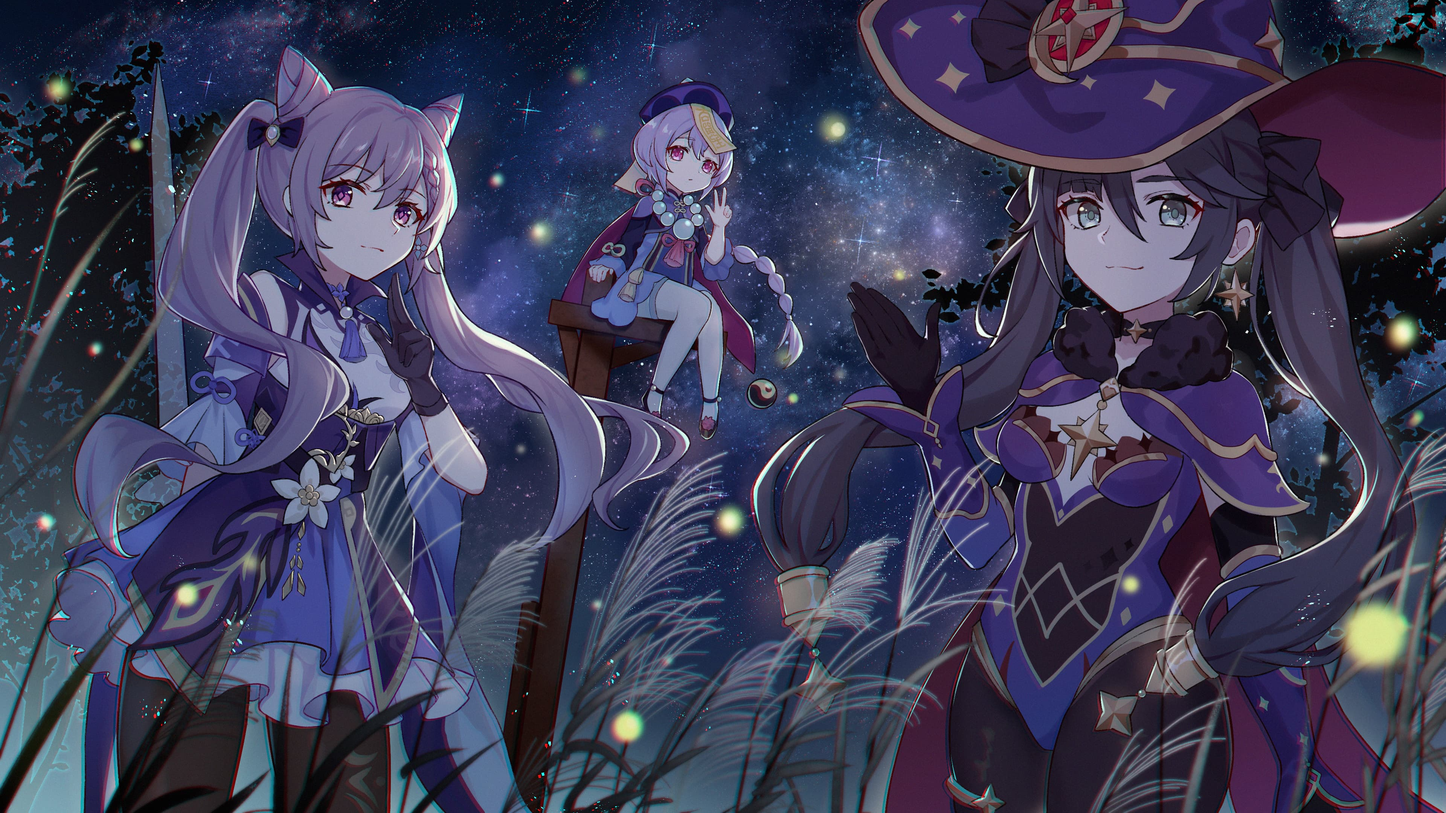
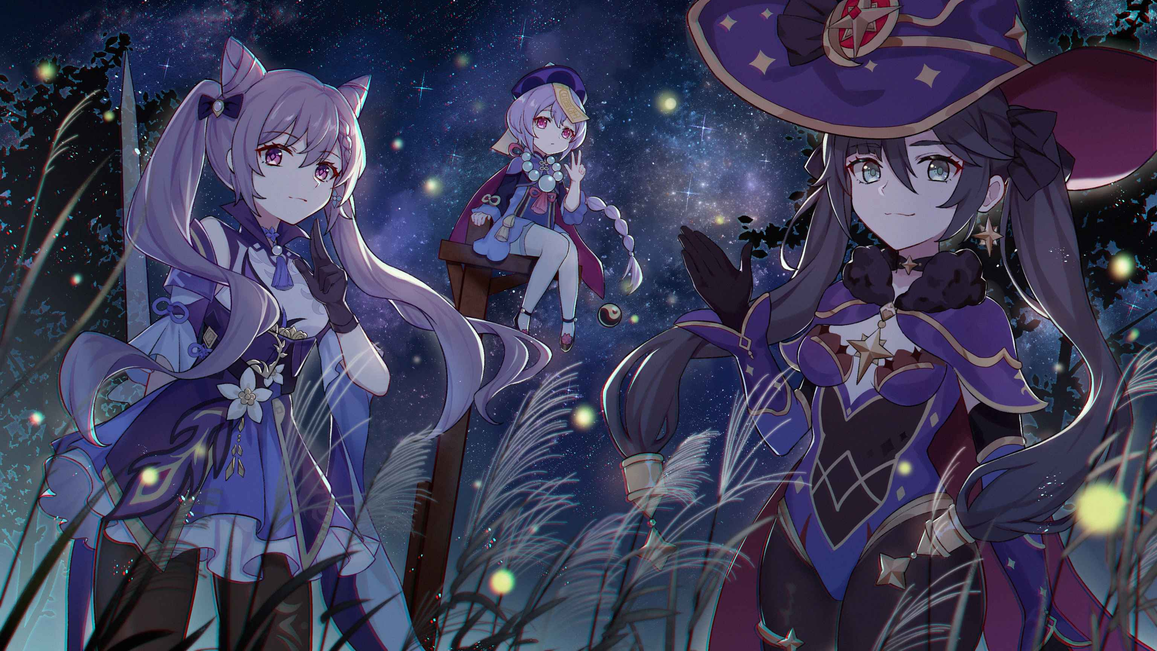
减少图片体积

Changed region(s): [[0.9375, 0.0, 1.0, 0.0312]]

diff --git a/Js/main.js b/Js/main.js
@@ -21,7 +21,7 @@
     }
     function Genshin_Impact(){
     let a = document.createElement('a');
-        a.href = 'Images/Genshin Impact.png';
+        a.href = 'Images/Genshin Impact.jpg';
         a.download = 'Genshin Impact.png';
         a.click();
     }
